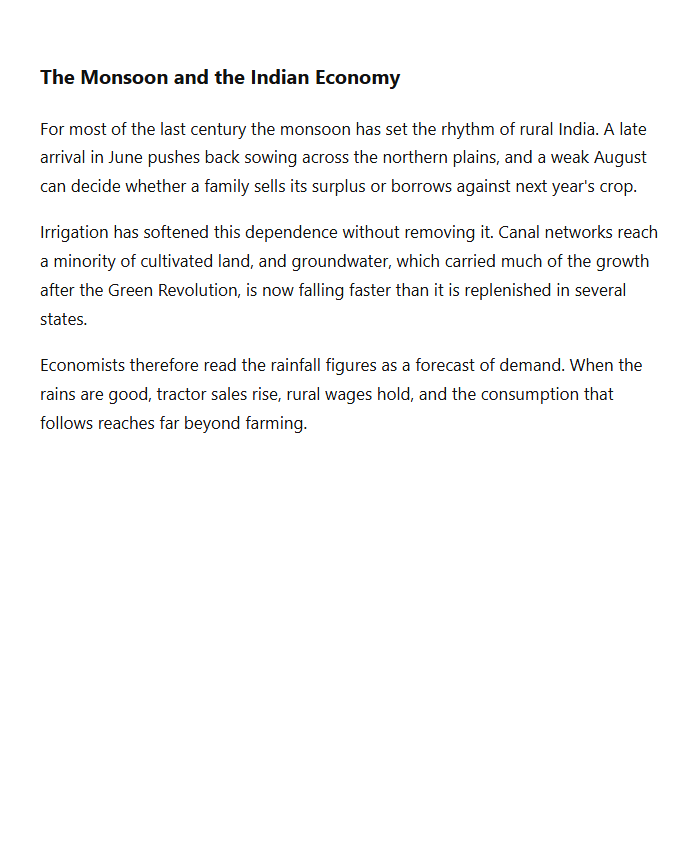
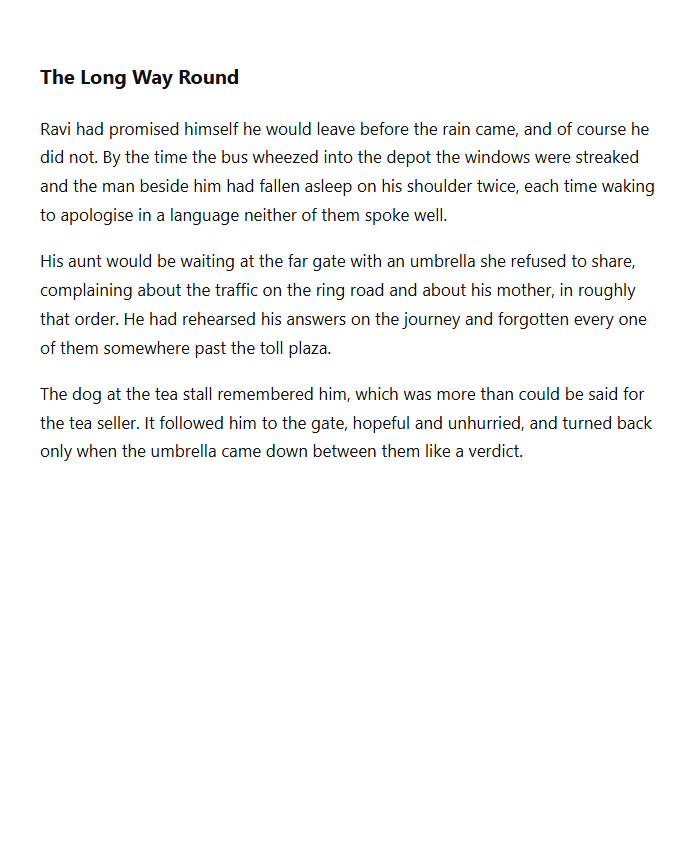
The browser evidence for Custom Practice actually runs now, and passes
custom-practice.spec.ts had never executed. Every one of the nine auth setups
it depends on failed first, so the spec was reported as "did not run" — which
reads like a skip and is worse than a failure, because nothing was measured
and nothing said so.

Two different causes, one of them mine.

The seven ROLE setups timed out waiting for "Email or Mobile". That field
moved behind the Organization tab when the login page started opening on
Individual for exam accounts (2026-09-23, my change). Staff and school
families sign in under Organization, so the setup clicks that tab first. Seven
setups had been broken since that day and nobody saw it, because these specs
were not being run.

The two EXAM setups asserted the student shell had rendered by reading
document.body once, immediately after the URL settled. The first page after a
session is injected pays for the auth bootstrap, the identity RPC and the
shell's own reads, and until those land it draws a skeleton with no text in
it. Measured: 38 characters, on a panel that was healthy a second later. It
now waits for the shell to render, bounded at 45s — a shell that never renders
still fails.

And the spec then caught something the script measure could not: refuse-prose
was ACCEPTED in the browser while the script had just refused it. The fixture
was at fault, not the classifier. It was an article on the monsoon and the
Indian economy, which for an Accountancy/Economics student IS study material,
[…]

Changed region(s): [[0.06, 0.0605, 0.93, 0.5442]]

diff --git a/e2e-evidence/auth.exam.setup.ts b/e2e-evidence/auth.exam.setup.ts
@@ -139,6 +139,19 @@ for (const account of EXAMS) {
     await expect(page).toHaveURL(account.home, { timeout: 45000 });
     await expect(page).not.toHaveURL(/\/auth(\?|$)/);
     // Positive control: must not be a school-student empty panel crash.
+    //
+    // Wait for the shell to RENDER, do not sample it once. The first page
+    // after a session is injected pays for the auth bootstrap, the identity
+    // RPC and the shell's own reads, and until those land it draws a skeleton
+    // with no text in it at all. Measured 2026-09-24: reading immediately
+    // returned 38 characters and failed this check on a panel that was
+    // perfectly healthy a second later. A timeout here is still a real
+    // failure — a shell that never renders never satisfies the wait.
+    await page
+      .waitForFunction(() => (document.body?.innerText ?? "").trim().length > 80, null, {
+        timeout: 45000,
+      })
+      .catch(() => {});
     const body = (await page.textContent("body")) ?? "";
     expect(body.length, "student shell rendered content").toBeGreaterThan(80);
     expect(body, "not unauthorized").not.toMatch(/No portal role|unauthorized/i);

diff --git a/e2e-evidence/auth.roles.setup.ts b/e2e-evidence/auth.roles.setup.ts
@@ -46,6 +46,11 @@ for (const account of ROLES) {
       return
     }
     await page.goto('/auth')
+    // The login page opens on Individual (exam accounts) since 2026-09-23.
+    // Staff and school families sign in under Organization, and the
+    // email/password form only exists there — without this click every role
+    // setup times out waiting for a field that is not on screen.
+    await page.getByRole('tab', { name: 'Organization' }).click()
     await page.getByLabel('Email or Mobile').fill(account.email)
     await page.locator('#signin-password').fill(account.password)
     await page.getByRole('button', { name: 'Sign in' }).click()
